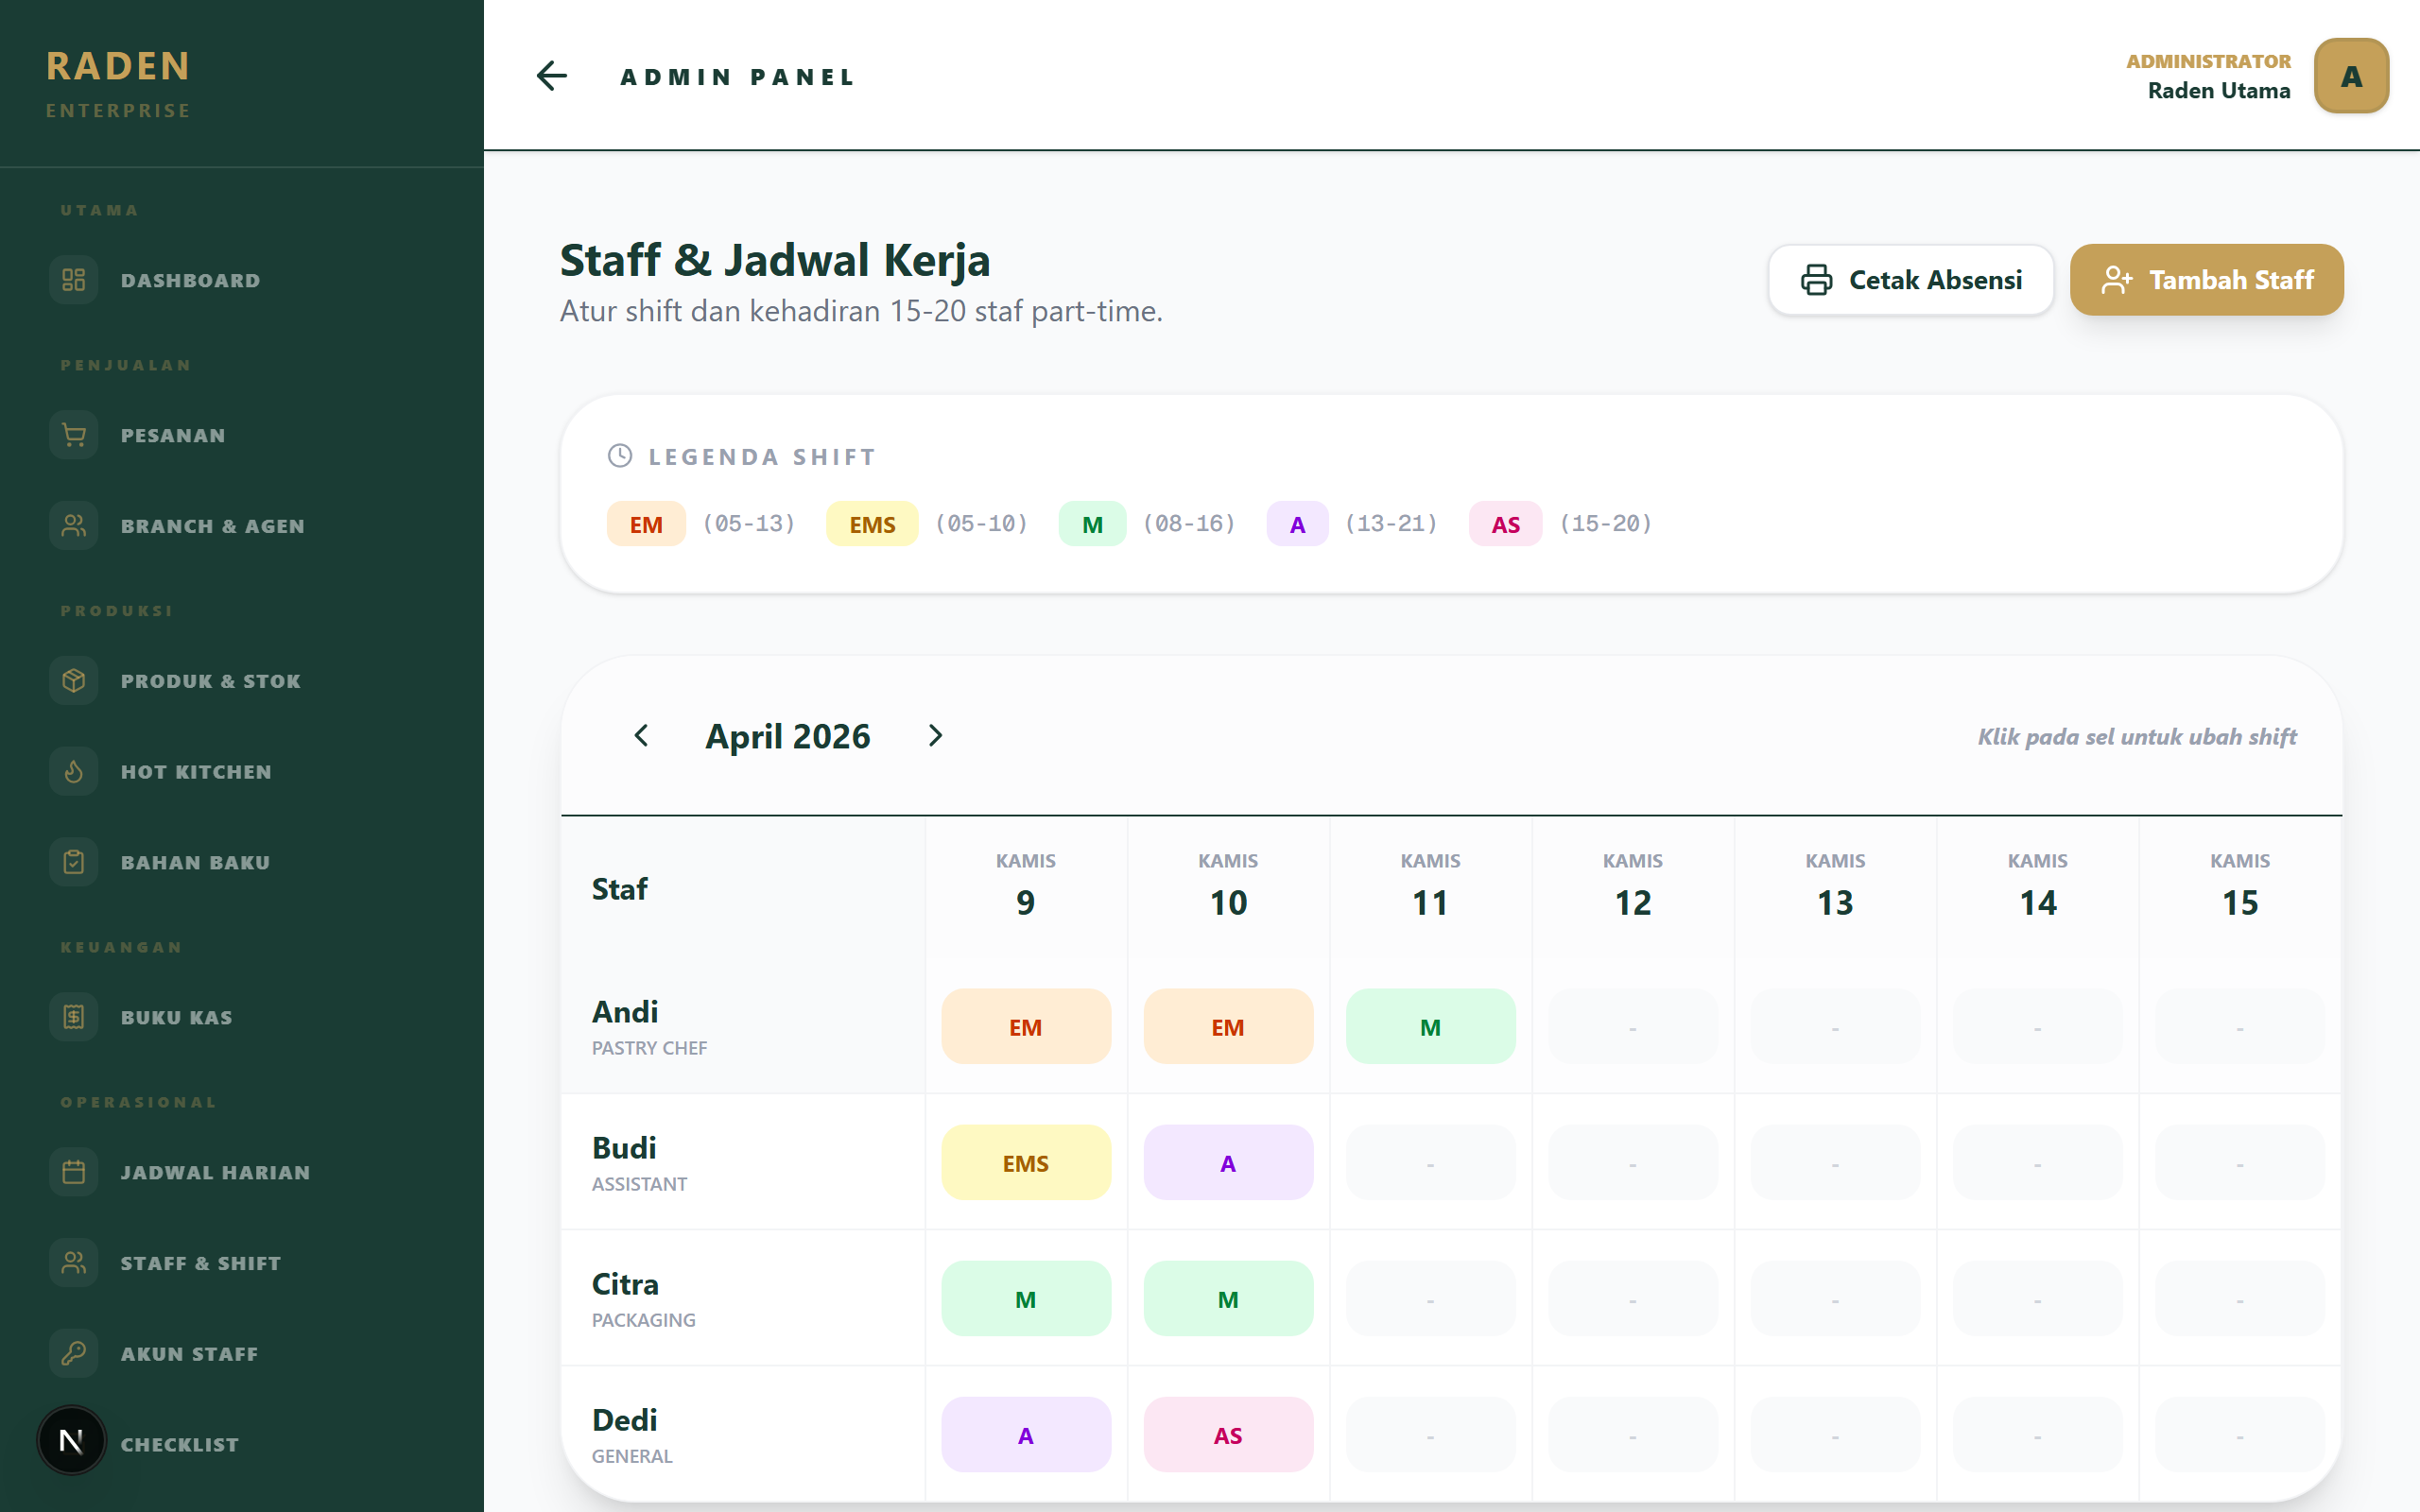
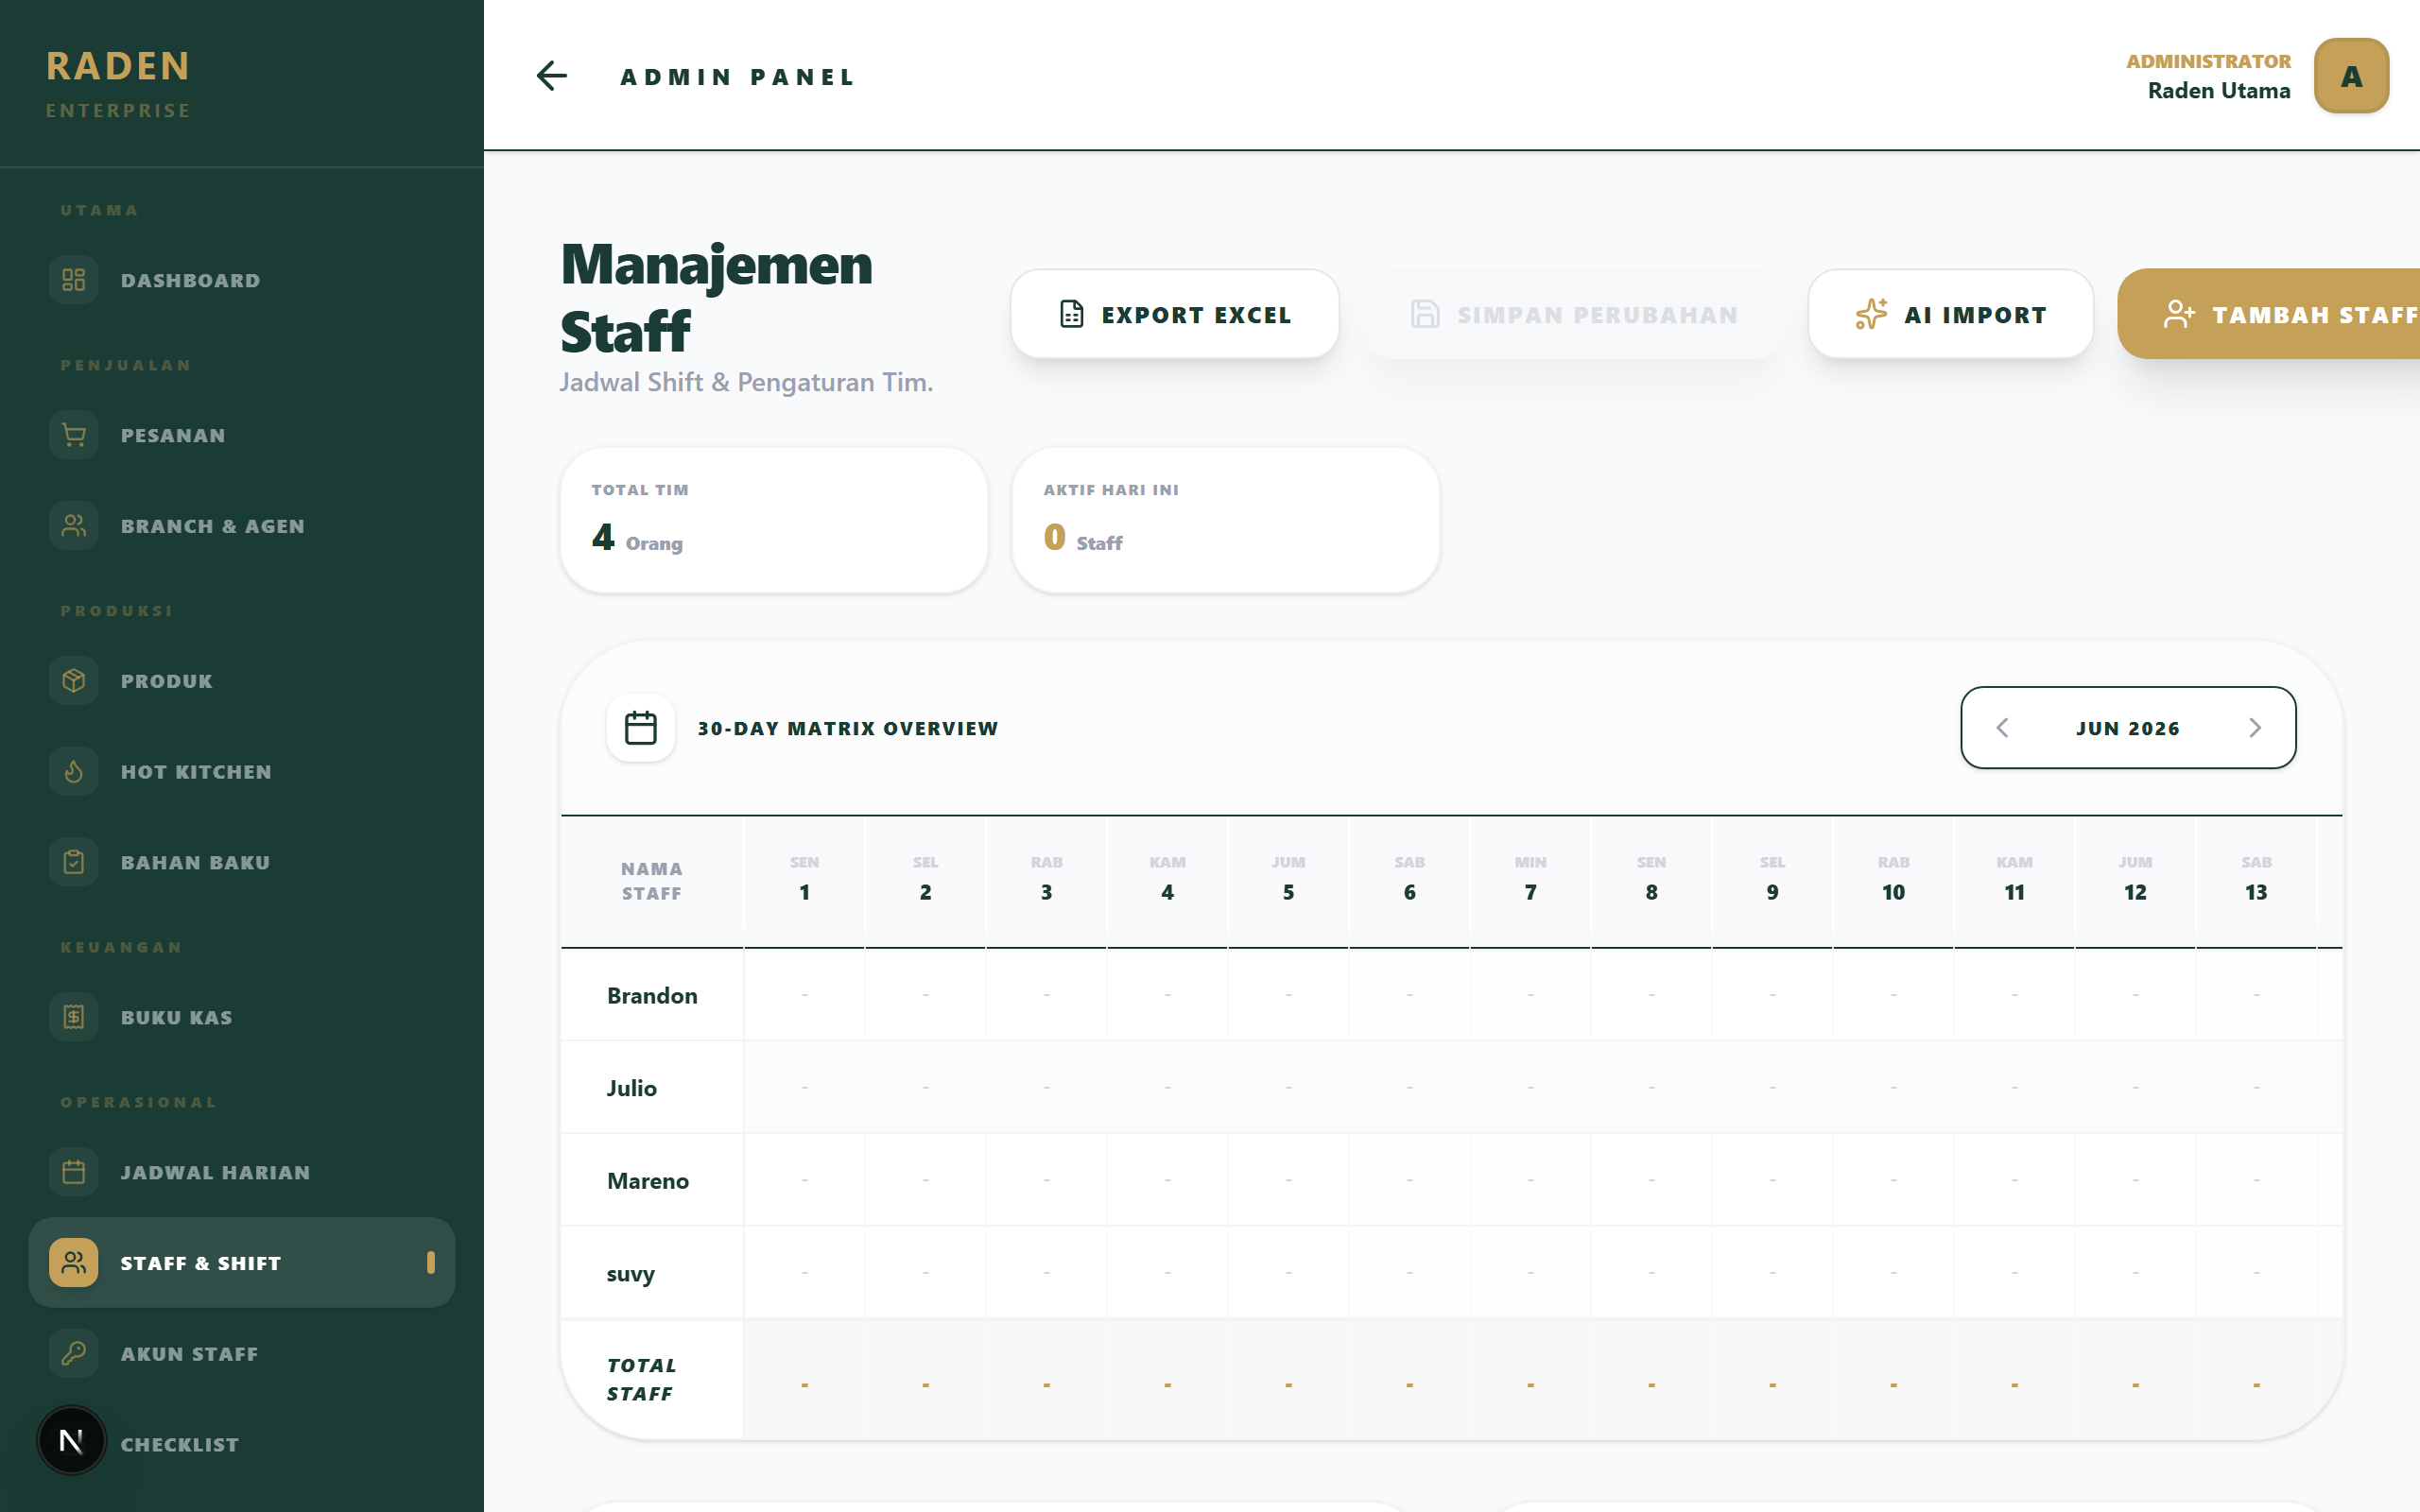
fix: dedupe AnimatePresence keys; remove mock schedules; refresh screenshot
- MaterialModals: give each AnimatePresence child a stable key. Opening the
  stock-check list + a detail together previously rendered two unkeyed children
  -> React "duplicate key ''" warning. Now keyed (mat-history/detail/add/etc).
- Remove orphan mock page src/app/admin/schedules/page.tsx (not linked; real
  Staff & Shift is /admin/staff).
- screenshots.mjs: capture staff-shifts from /admin/staff; refresh the PNG.

diff --git a/src/app/admin/materials/_components/MaterialModals.tsx b/src/app/admin/materials/_components/MaterialModals.tsx
@@ -62,7 +62,7 @@ export default function MaterialModals(props: MaterialModalsProps) {
     <AnimatePresence>
       {/* Stock Check Results — pick a date */}
       {showHistoryModal && (
-        <div className="fixed inset-0 z-40 flex items-center justify-center p-4">
+        <div key="mat-history" className="fixed inset-0 z-40 flex items-center justify-center p-4">
           <motion.div initial={{ opacity: 0 }} animate={{ opacity: 1 }} exit={{ opacity: 0 }} onClick={() => setShowHistoryModal(false)} className="absolute inset-0 bg-raden-green/60 backdrop-blur-sm" />
           <motion.div initial={{ scale: 0.9, opacity: 0 }} animate={{ scale: 1, opacity: 1 }} exit={{ scale: 0.9, opacity: 0 }} className="relative bg-white rounded-[2rem] sm:rounded-[3rem] p-6 sm:p-10 w-full max-w-4xl shadow-2xl max-h-[90vh] flex flex-col overflow-hidden">
             <div className="flex justify-between items-start mb-2">
@@ -107,7 +107,7 @@ export default function MaterialModals(props: MaterialModalsProps) {
         const ok = items.filter((it) => (it.how_much_to_buy || '').trim() === '');
         const who = Array.from(new Set(items.map((it) => it.staff_name).filter(Boolean))).join(', ');
         return (
-          <div className="fixed inset-0 z-50 flex items-center justify-center p-4">
+          <div key="mat-detail" className="fixed inset-0 z-50 flex items-center justify-center p-4">
             <motion.div initial={{ opacity: 0 }} animate={{ opacity: 1 }} exit={{ opacity: 0 }} onClick={() => setSelectedHistory(null)} className="absolute inset-0 bg-raden-green/60 backdrop-blur-sm" />
             <motion.div initial={{ scale: 0.9, opacity: 0 }} animate={{ scale: 1, opacity: 1 }} exit={{ scale: 0.9, opacity: 0 }} className="relative bg-white rounded-[2rem] p-6 sm:p-10 w-full max-w-md shadow-2xl max-h-[90vh] flex flex-col">
               <div className="flex justify-between items-start mb-6 border-b pb-6">
@@ -168,7 +168,7 @@ export default function MaterialModals(props: MaterialModalsProps) {
 
       {/* Add Material Modal */}
       {showAddModal && (
-        <div className="fixed inset-0 z-50 flex items-center justify-center p-4">
+        <div key="mat-add" className="fixed inset-0 z-50 flex items-center justify-center p-4">
           <motion.div initial={{ opacity: 0 }} animate={{ opacity: 1 }} exit={{ opacity: 0 }} onClick={() => setShowAddModal(false)} className="absolute inset-0 bg-raden-green/60 backdrop-blur-sm" />
           <motion.div initial={{ scale: 0.9, opacity: 0 }} animate={{ scale: 1, opacity: 1 }} exit={{ scale: 0.9, opacity: 0 }} className="relative bg-white rounded-[2rem] sm:rounded-[3rem] p-6 sm:p-10 w-full max-w-md shadow-2xl overflow-y-auto max-h-[90vh]">
             <div className="flex justify-between items-center mb-6 sm:mb-8"><h2 className="text-xl sm:text-2xl font-black text-raden-green tracking-tighter uppercase">Tambah Bahan</h2><button onClick={() => setShowAddModal(false)} className="text-gray-400"><X size={24}/></button></div>
@@ -187,7 +187,7 @@ export default function MaterialModals(props: MaterialModalsProps) {
 
       {/* Edit Material Modal */}
       {showEditModal && (
-        <div className="fixed inset-0 z-50 flex items-center justify-center p-4">
+        <div key="mat-edit" className="fixed inset-0 z-50 flex items-center justify-center p-4">
           <motion.div initial={{ opacity: 0 }} animate={{ opacity: 1 }} exit={{ opacity: 0 }} onClick={() => setShowEditModal(false)} className="absolute inset-0 bg-raden-green/60 backdrop-blur-sm" />
           <motion.div initial={{ scale: 0.9, opacity: 0 }} animate={{ scale: 1, opacity: 1 }} exit={{ scale: 0.9, opacity: 0 }} className="relative bg-white rounded-[2rem] sm:rounded-[3rem] p-6 sm:p-10 w-full max-w-md shadow-2xl overflow-y-auto max-h-[90vh]">
             <div className="flex justify-between items-center mb-6 sm:mb-8"><h2 className="text-xl sm:text-2xl font-black text-raden-green tracking-tighter uppercase">Update</h2><button onClick={() => setShowEditModal(false)} className="text-gray-400"><X size={24}/></button></div>
@@ -205,7 +205,7 @@ export default function MaterialModals(props: MaterialModalsProps) {
 
       {/* Delete Material Confirmation */}
       {itemToDelete && (
-        <div className="fixed inset-0 z-[60] flex items-center justify-center p-4">
+        <div key="mat-delete" className="fixed inset-0 z-[60] flex items-center justify-center p-4">
           <motion.div initial={{ opacity: 0 }} animate={{ opacity: 1 }} exit={{ opacity: 0 }} onClick={() => setItemToDelete(null)} className="absolute inset-0 bg-raden-green/60 backdrop-blur-sm" />
           <motion.div initial={{ scale: 0.9, opacity: 0 }} animate={{ scale: 1, opacity: 1 }} exit={{ scale: 0.9, opacity: 0 }} className="relative bg-white rounded-[2rem] p-8 w-full max-w-sm shadow-2xl text-center">
             <div className="w-16 h-16 bg-red-50 text-red-500 rounded-full flex items-center justify-center mx-auto mb-6"><Trash2 size={32} /></div>
@@ -218,7 +218,7 @@ export default function MaterialModals(props: MaterialModalsProps) {
 
       {/* Category Manager Modal */}
       {showCategoryManager && (
-        <div className="fixed inset-0 z-50 flex items-center justify-center p-4">
+        <div key="mat-category" className="fixed inset-0 z-50 flex items-center justify-center p-4">
           <motion.div initial={{ opacity: 0 }} animate={{ opacity: 1 }} exit={{ opacity: 0 }} onClick={() => setShowCategoryManager(false)} className="absolute inset-0 bg-raden-green/60 backdrop-blur-sm" />
           <motion.div initial={{ scale: 0.9, opacity: 0 }} animate={{ scale: 1, opacity: 1 }} exit={{ scale: 0.9, opacity: 0 }} className="relative bg-white rounded-[2rem] sm:rounded-[3rem] p-6 sm:p-10 w-full max-w-lg shadow-2xl flex flex-col max-h-[85vh]">
             <div className="flex justify-between items-center mb-8 border-b pb-6"><div><h2 className="text-xl font-black text-raden-green uppercase tracking-tighter">Kelola Kategori</h2><p className="text-[10px] text-gray-400 font-bold uppercase tracking-widest">Bahan Baku</p></div><button onClick={() => { setShowCategoryManager(false); setNewCategoryName(''); }} className="p-2 hover:bg-gray-100 rounded-full text-gray-400"><X /></button></div>